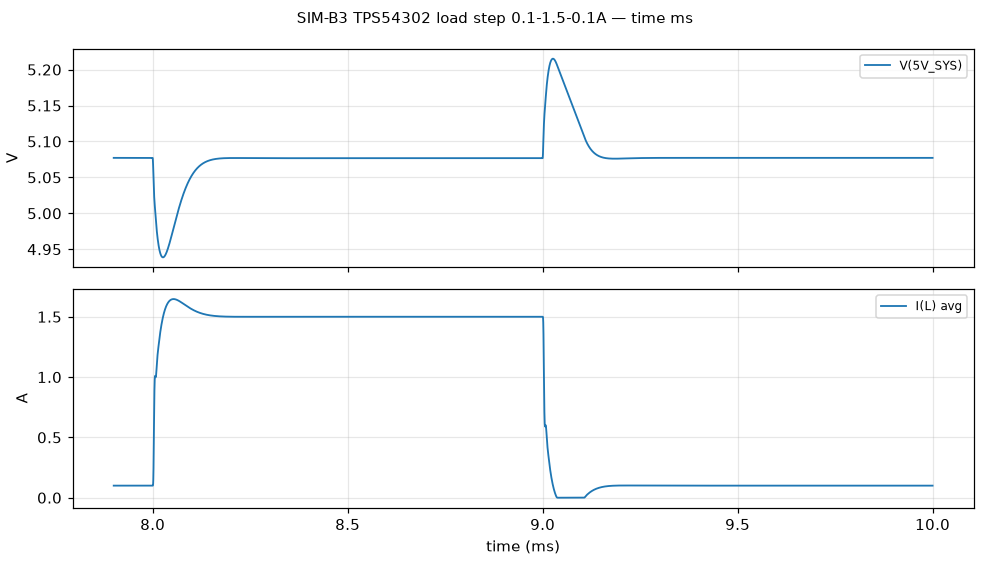
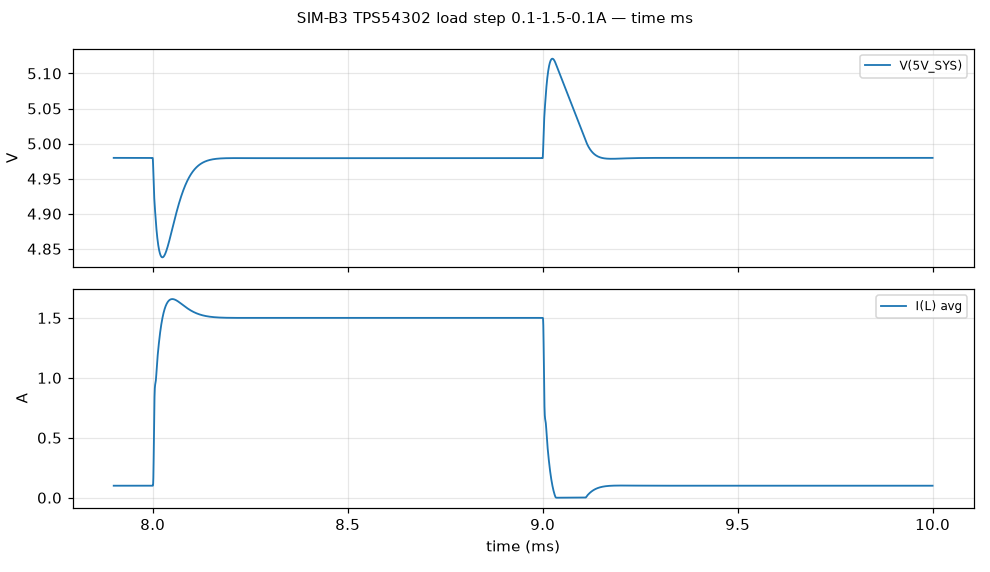
SIM-001a 재실행 (C-019 7760f38): B1·C3 pass, 15개 모두 pass, run_all.py 종료 0
같은 기준 64bde61. B1 4.770~5.196V, C3 CORE_3V3 강하 0.046V, B3 fc 18.2kHz·PM 100°.

diff --git a/hardware/sim/run_all.py b/hardware/sim/run_all.py
@@ -11,7 +11,8 @@ import matplotlib.pyplot as plt
 HERE = os.path.dirname(os.path.abspath(__file__))
 NG = os.environ.get('NGSPICE', r'C:\Users\gh\tools\ngspice\47\Spice64\bin\ngspice_con.exe')
 CRITERIA_COMMIT = '64bde61'  # d00a3ac + A4(781961b) + 개정 1 ef3c0d0 + 개정 2 (R-021 GST40A12-P1J)
-SCH_COMMIT = 'a61dc63'  # C-018 (R6 6.04k, R17 4.7k, C19 4.7nF)
+SCH_COMMIT = '7760f38'  # C-019 (R2 78.7k / R3 10.7k, 전면 R20·C20·C21) — C-018 R6 6.04k 포함
+FB_R2, FB_R3 = 78.7e3, 10.7e3   # 캐리어 TPS54302 FB 분압 (C-019; C-018 까지 100k/13.3k)
 TOOL = {'name': 'ngspice', 'version': 'ngspice-47 (공식 SourceForge ng-spice-rework/47/ngspice-47_64.7z)',
         'sha256': '59225971… (7z, firmware 설치·검증 — orch O-81)', 'path': NG.replace('\\', '/')}
 for d in ('results', 'png'): os.makedirs(os.path.join(HERE, d), exist_ok=True)
@@ -293,13 +294,13 @@ def sim_b():
     vals = []
     for vfb in BK['VFB']:
         for s in (-1, 1):
-            r2 = 100e3 * (1 + 0.01 * s); r3 = 13.3e3 * (1 - 0.01 * s)
+            r2 = FB_R2 * (1 + 0.01 * s); r3 = FB_R3 * (1 - 0.01 * s)
             vals.append(vfb * (1 + r2 / r3))
-    net = f"""* SIM-B1 TPS54302 FB 분압 DC (VFB 최대·최소 × R2 100k/R3 13.3k ±1%) — .op
+    net = f"""* SIM-B1 TPS54302 FB 분압 DC (VFB 최대·최소 × R2 {FB_R2 / 1e3:g}k/R3 {FB_R3 / 1e3:g}k ±1%) — .op
 Vref1 r1 0 {BK['VFB'][2]}
 Vref2 r2 0 {BK['VFB'][0]}
-Eo1 o1 0 VALUE = {{ v(r1) * (1 + 101k / 13.167k) }}
-Eo2 o2 0 VALUE = {{ v(r2) * (1 + 99k / 13.433k) }}
+Eo1 o1 0 VALUE = {{ v(r1) * (1 + {FB_R2 * 1.01:.6g} / {FB_R3 * 0.99:.6g}) }}
+Eo2 o2 0 VALUE = {{ v(r2) * (1 + {FB_R2 * 0.99:.6g} / {FB_R3 * 1.01:.6g}) }}
 .control
 op
 let vmax = v(o1)
@@ -315,15 +316,13 @@ quit
     tmp = tempfile.mkdtemp(); subprocess.run([NG, '-b', os.path.join(HERE, 'SIM-B1.cir')], cwd=tmp, capture_output=True)
     sv = {l.split()[0]: float(l.split()[1]) for l in open(os.path.join(tmp, 'b1.dat'))}
     vmax, vmin = sv['vmax'], sv['vmin']
-    # 제안 대안(R3 13.5k E192) 도 같이 계산해 notes 에
-    alt = (BK['VFB'][0] * (1 + 99e3 / (13.5e3 * 1.01)), BK['VFB'][2] * (1 + 101e3 / (13.5e3 * 0.99)))
     out.append(save('SIM-B1', 'TPS54302 출력 전압 공차 (FB 분압 최악)', 'carrier', ['U1', 'R2', 'R3'],
         {'source': '계산 (ngspice .op)', 'url': DS['TPS54302'], 'license': '—', 'behavioral': True, 'basis': 'SLVSDG6C 5.5 VFB 0.581/0.596/0.611 V (−40~125 °C); Equation 3 VOUT = VFB(1+R2/R3)'},
         [chk('출력 최대 (VFB 0.611, R2 +1%, R3 −1%)', '<=', 5.25, vmax, 'V', 'VFB max · R ±1%'),
          chk('출력 최소 (VFB 0.581, R2 −1%, R3 +1%)', '>=', 4.75, vmin, 'V', 'VFB min · R ±1%'),
          chk('출력 최대 < D7 SMBJ6.0A VRWM', '<=', 6.0, vmax, 'V', '')],
         [], 'SIM-B1.cir',
-        f'전형값 {BK["VFB"][1] * (1 + 100 / 13.3):.3f} V. 대안 R3 = 13.5k(E192, 1%) 이면 {alt[0]:.3f}~{alt[1]:.3f} V. VFB 공차 ±2.5% 는 온도 전 범위 값이며 Figure 5-5 의 전형 온도 변화는 ±0.5% 안.'))
+        f'R2 {FB_R2 / 1e3:g}k / R3 {FB_R3 / 1e3:g}k (C-019), 전형값 {BK["VFB"][1] * (1 + FB_R2 / FB_R3):.3f} V. C-018 까지 100k/13.3k 는 최악 5.298 V 로 fail. 코어 VIN 저전압 차단 3.0 V 까지 여유 {vmin - 3.0:.2f} V. VFB 공차 ±2.5% 는 온도 전 범위 값.'))
     # --- B2 리플 (스위칭 모델)
     vin = VIN12[2]; L = L1['L'] * (1 - L1['TOL']); fsw = BK['FSW'][0]; iout = 1.3
     D = (5.0 + iout * (BK['RLS'] + L1['DCR'])) / (vin + iout * (BK['RLS'] - BK['RHS']))
@@ -376,8 +375,8 @@ Vin vin 0 {vin}
 X1 vin sw fb TPS54302 params: L={L1['L']} FSW={BK['FSW'][1]}
 Cout sw ce {c:.4g}
 Resr ce 0 2m
-Rtop vs fb 100k
-Rbot fb 0 13.3k
+Rtop vs fb {FB_R2:g}
+Rbot fb 0 {FB_R3:g}
 Cff vs fb {cff}
 {extra}
 {analysis}
@@ -516,8 +515,8 @@ def sim_a4():
 {buck_subckt(BK['VFB'][1], BK['ILIM_HS'][0])}
 Xbk in12 v5 fb TPS54302 params: L={L1['L']} FSW={BK['FSW'][1]}
 Cv5 v5 0 {4 * 22e-6 * dcbias()[0]:.4g}
-Rtop v5 fb 100k
-Rbot fb 0 13.3k
+Rtop v5 fb {FB_R2:g}
+Rbot fb 0 {FB_R3:g}
 Cff v5 fb 75p
 Rld v5 0 {5 / 1.3:.4g}
 Vpwm pwm 0 PULSE(0 1 9m 1u 1u 0.5m 2m)
@@ -657,13 +656,16 @@ C33 c33 0 12u
 V18 s18 0 1.8
 R18p s18 c18 0.1
 C18p c18 0 8.5u
-* 전면 CAM_EN (1 ms): Q3 → CAM_PG, Q7 → CAM_1V8_PD
+* 전면 CAM_EN (1 ms): Q3 → CAM_PG (→ R20 1k → Q1, → R5 10k → Q2), Q7 → CAM_1V8_PD
 Ven en 0 PULSE(0 1 1m 1u 1u 1 2)
 R4 c33 pg 100k
 Sq3 pg 0 en 0 SQ
 R5 pg pgav 10k
-Mq1 iov pg c33 c33 PAO
-Cg1 pg c33 645p
+Rf20 pg pgio 1k
+Cf20 pgio iov 4.7n
+Mq1 iov pgio c33 c33 PAO
+Cg1 pgio c33 645p
+Cf21 pgav avd 4.7n
 Mq2 avd pgav c33 c33 PAO
 Cg2 pgav c33 645p
 C7 iov 0 1u
@@ -715,7 +717,7 @@ quit
     out.append(save('SIM-C3', '스위치 켬 순간 코어 레일 강하 (CAM_EN · SD0_PWR_EN)', 'carrier+front', ['front Q1', 'Q2', 'Q3', 'Q6', 'Q7', 'R18', 'C19', 'carrier Q2', 'R22', 'C21'],
         {'source': '레벨 1 MOSFET(전형) + 코어 레일 등가(가정)', 'url': DS['AO3401A'] + ' · ' + DS['DMG2305UX'] + ' · ' + DS['CORE'], 'license': '이 저장소 작성', 'behavioral': True,
          'basis': '코어 레일: 이상 전원 + 0.1 Ω(SIM-001b 와 같은 가정) + 로컬 C (코어 SCH 03 출력 C, DC 바이어스 감액 가정). 센서 레일 부하 30 mA, X1 450 Ω, SD 카드 10 µF·0.2 A (가정)'},
-        [chk('CAM_EN 켬: CORE_3V3 강하', '<=', 0.166, d33c, 'V', 'Q1 게이트 직접(R4 100k / Q3), Q2 게이트 R5 10k'),
+        [chk('CAM_EN 켬: CORE_3V3 강하', '<=', 0.166, d33c, 'V', 'C-019: Q1 게이트 R20 1k + C20 4.7 nF, Q2 R5 10k + C21 4.7 nF (밀러)'),
          chk('CAM_EN 켬: CORE_1V8 강하 (C-018 R17 4.7k·R18·C19 4.7n)', '<=', 0.09, d18, 'V', ''),
          chk('SD0_PWR_EN 켬: CORE_3V3 강하', '<=', 0.166, d33s, 'V', 'R22 47k / C21 100 nF')],
         pngs, 'SIM-C3.cir', f'기준선 CORE_3V3 {b33:.3f} V, CORE_1V8 {b18:.3f} V (0.1 Ω 경로 강하 포함). 코어 쪽 실제 디커플링(SoC 주변 C)은 더 크므로 강하는 이보다 작을 수 있다.'))
@@ -730,8 +732,8 @@ def sim_d():
 {buck_subckt(BK['VFB'][1], BK['ILIM_HS'][0])}
 Xbk in12 v5 fb TPS54302 params: L={L1['L']} FSW={BK['FSW'][1]}
 Cv5 v5 0 {4 * 22e-6 * dcbias()[0]:.4g}
-Rtop v5 fb 100k
-Rbot fb 0 13.3k
+Rtop v5 fb {FB_R2:g}
+Rbot fb 0 {FB_R3:g}
 Cff v5 fb 75p
 * 코어: 5V 부하 0.3 A (3V3 뜬 뒤), 3V3 = VIN > 4 V 뒤 1 ms 램프 (SY80004 소프트 스타트 가정), 1V8 = 3V3 따라 (SGM2036)
 Bon33 e33 0 V = v(v5) > 4.0 ? 1 : 0

diff --git a/hardware/sim/README.md b/hardware/sim/README.md
@@ -1,17 +1,15 @@
 # SIM-001a 전원 경로 회로 시뮬레이션 (VD-001 7, schematic)
 
-**결론:** 15개 시험 중 **13개 pass, 2개 fail**이다. 실행 스크립트 종료 코드는 2다.
+**결론 (C-019 `7760f38`):** 15개 시험이 **모두 pass**다. 실행 스크립트 종료 코드는 **0**이다.
 
-| fail | 내용 |
+| 판 | 결과 |
 |---|---|
-| **SIM-B1** | 5V_SYS 최악 공차가 5.298V로 계약 ±5%(5.25V)를 넘는다 |
-| **SIM-C3** | CAM_EN을 켤 때 CORE_3V3이 0.23V(6.9%) 순간 강하한다. 기준은 5% |
+| 첫 실행 (C-018 `a61dc63`, 커밋 `4733be6`) | 2개 fail: SIM-B1 5V 공차 5.298V, SIM-C3 CAM_EN 때 CORE_3V3 강하 0.230V |
+| C-019 (O-93) | 아래 P1·P2를 회로도에 반영한 뒤 **같은 기준**(`64bde61`, 바꾸지 않음)으로 다시 돌렸다 → 둘 다 pass |
 
-두 건 모두 아래 「수정 제안」에 D-003 방식으로 정리했다. 회로도는 이 레인에서 고치지 않았다(orch 판단).
-
-- 대상 회로도: C-018 `a61dc63`
-  - 캐리어 R6 6.04k
-  - 전면 R17 4.7k · C19 4.7nF · R18 1k · R19 10k
+- 대상 회로도: C-019 `7760f38`
+  - 캐리어 R6 6.04k · R2 78.7k / R3 10.7k
+  - 전면 R17 4.7k · C19 4.7nF · R18 1k · R19 10k · R20 1k · C20/C21 4.7nF
 - 기준: [criteria.md](criteria.md)
   - 결과보다 먼저 커밋했다: `d00a3ac` → A4 `781961b` → 개정 1 `ef3c0d0` → 개정 2 `33ea3bf` → A5 `64bde61`
   - 결과 JSON의 `criteria_commit` = `64bde61`
@@ -28,20 +26,24 @@
 | SIM-A1 | TPS26600 기동 돌입 (dVdT 22nF) | pass | 피크 0.235A (≤ I(OL) 최소), 램프 2.3ms (≤ 10ms) |
 | SIM-A2 | 켜짐(POR)·OVP 문턱 | pass | 켜짐 4.10V (≤ 11.3V), OVP 31.0V (≥ 12.6V) — UVLO→IN·OVP→RTN이라 분압 저항 없음 |
 | SIM-A3 | 전류 제한·회로차단기 (R6 6.04k) | pass | I(OL) 최소 1.86A (≥ 1.22A), 과부하 입력 피크 2.74A (≤ 3.34A), 재시도 평균 0.017A (≤ 1.22A) |
-| SIM-A4 | 어댑터 GST40A12-P1J + 최악 부하·과부하 | pass | 정상 피크 1.86A / 평균 0.94A, 과부하 피크 2.77A (< OLP 3.51A), 5V_SYS 유지. 참고 GST25A12: 과부하 때 5V_SYS 3.9V(정전류)·0V(hiccup) |
+| SIM-A4 | 어댑터 GST40A12-P1J + 최악 부하·과부하 | pass | 정상 피크 1.84A / 평균 0.92A, 과부하 피크 2.74A (< OLP 3.51A), 5V_SYS 최소 4.98V(정전류·hiccup). 참고 GST25A12: 과부하 때 5V_SYS 3.9V(정전류)·0V(hiccup) |
 | SIM-A5 | 12V 전류 순서 표 | pass | [표](SIM-A5-current-order.md): 1.585 × 1.15 = 1.823A ≤ I(OL) 최소 1.861A, I(OL) 최대 2.115 + 0.648 = 2.763A < 3.51A |
-| **SIM-B1** | TPS54302 출력 공차 | **fail** | 4.863~**5.298V** (4.75~5.25V) |
+| SIM-B1 | TPS54302 출력 공차 | pass (C-019) | 4.770~5.196V (4.75~5.25V). 첫 실행(100k/13.3k)은 5.298V로 fail. 코어 VIN 차단 3.0V까지 여유 1.77V |
 | SIM-B2 | 리플 | pass | 9mVpp (≤ 30mV), VIN 12.6V·L 8µH·fsw 290kHz |
-| SIM-B3 | 부하 과도·루프 | pass | 0.1↔1.5A 편차 138mV (≤ 250mV), fc 20kHz (≤ 40kHz), 위상 여유 108° (≥ 45°) |
+| SIM-B3 | 부하 과도·루프 | pass | 0.1↔1.5A 편차 142mV (≤ 250mV), fc 18.2kHz (≤ 40kHz), 위상 여유 100° (≥ 45°) — R2 78.7k로 피드포워드 영점이 옮겨 간 뒤 |
 | SIM-B4 | 기동 | pass | 오버슈트 0.1%, 95% 4.8ms |
 | SIM-B5 | 인덕터 | pass | Isat 6.0A = I(LIM_HS) 최대 6A (여유 0), Irms 3.5A, 정상 피크 1.96A |
 | SIM-B6 | 출력 C DC 바이어스 | pass | 5V에서 C/C0 = 0.795 (Samsung) → 유효 최소 63µF (≥ 30µF) |
 | SIM-C1 | RT9013-28 | pass | 2.744V 최소 (≥ 2.744V), 여유 1.97V |
-| SIM-C2 | 부하 스위치 강하 | pass | SD 10mV, CAM 5mV, CAM_1V8 1.75V (≥ 1.71V) |
-| **SIM-C3** | 스위치 켬 순간 코어 레일 강하 | **fail** | CAM_EN: CORE_3V3 **0.230V** (≤ 0.166V). CORE_1V8 0.01V·SD 0.034V는 pass |
-| SIM-D1 | 전원 순서 | pass | 12V_IN > 4.4V 뒤 3.4ms에 5V_SYS 4.75V. 오버슈트 < 0.2%, 12V_IR 0V, 2V8 단조 |
+| SIM-C2 | 부하 스위치 강하 | pass | SD 10mV, CAM 5mV, CAM_1V8 1.757V (≥ 1.71V) |
+| SIM-C3 | 스위치 켬 순간 코어 레일 강하 | pass (C-019) | CAM_EN: CORE_3V3 0.046V (≤ 0.166V; 첫 실행 0.230V fail), CORE_1V8 0.018V, SD 0.034V |
+| SIM-D1 | 전원 순서 | pass | 12V_IN > 4.4V 뒤 3.5ms에 5V_SYS 4.75V. 오버슈트 < 0.2%, 12V_IR 0V, 2V8 단조 |
 
-## 수정 제안 (D-003 방식, orch 판단)
+## 수정 제안 (D-003 방식) — orch O-93 판단으로 C-019에 반영
+
+- **P1:** orch가 E192 13.5k(0.5% 필요)는 채택하지 않았다. 대신 1% E96 중 LCSC 재고가 있고 최악 범위의 가운데가 5V에 가장 가까운 **R2 78.7k / R3 10.7k**를 반영했다.
+- **P2:** 1안 그대로 반영했다(전면 R20·C20·C21).
+- 아래 표는 첫 실행 때 제안이다.
 
 | # | 시험 | 분기점 | 1안 | 이유 · 근거 | 차선 |
 |---|---|---|---|---|---|

diff --git a/hardware/sim/SIM-A5-current-order.md b/hardware/sim/SIM-A5-current-order.md
@@ -1,6 +1,6 @@
 # SIM-A5 12V 전류 순서 표 (run_all.py 가 만든다)
 
-- 회로도 R6 = **6.04 kΩ** (`a61dc63`) · 기준 `64bde61` · I(OL) = 12 / R(kΩ) (SLVSDG2G Equation 3, 22쪽), 허용 오차 5.4 % (7.5 표) + R ±1 %
+- 회로도 R6 = **6.04 kΩ** (`7760f38`) · 기준 `64bde61` · I(OL) = 12 / R(kΩ) (SLVSDG2G Equation 3, 22쪽), 허용 오차 5.4 % (7.5 표) + R ±1 %
 
 | 줄 | 최소 | 전형 | 최대 | 근거 |
 |---|---|---|---|---|
